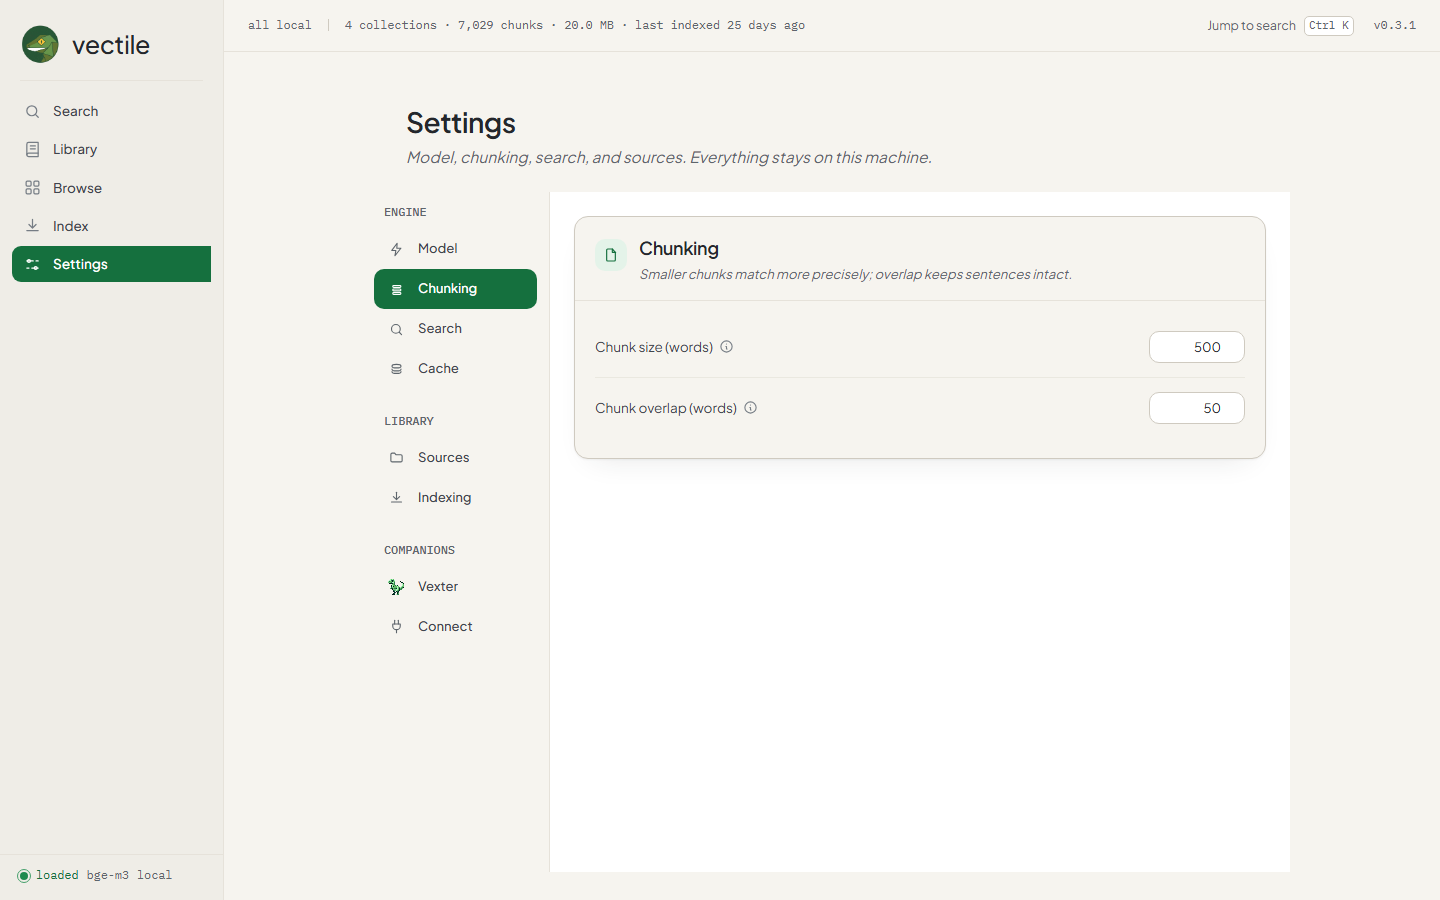
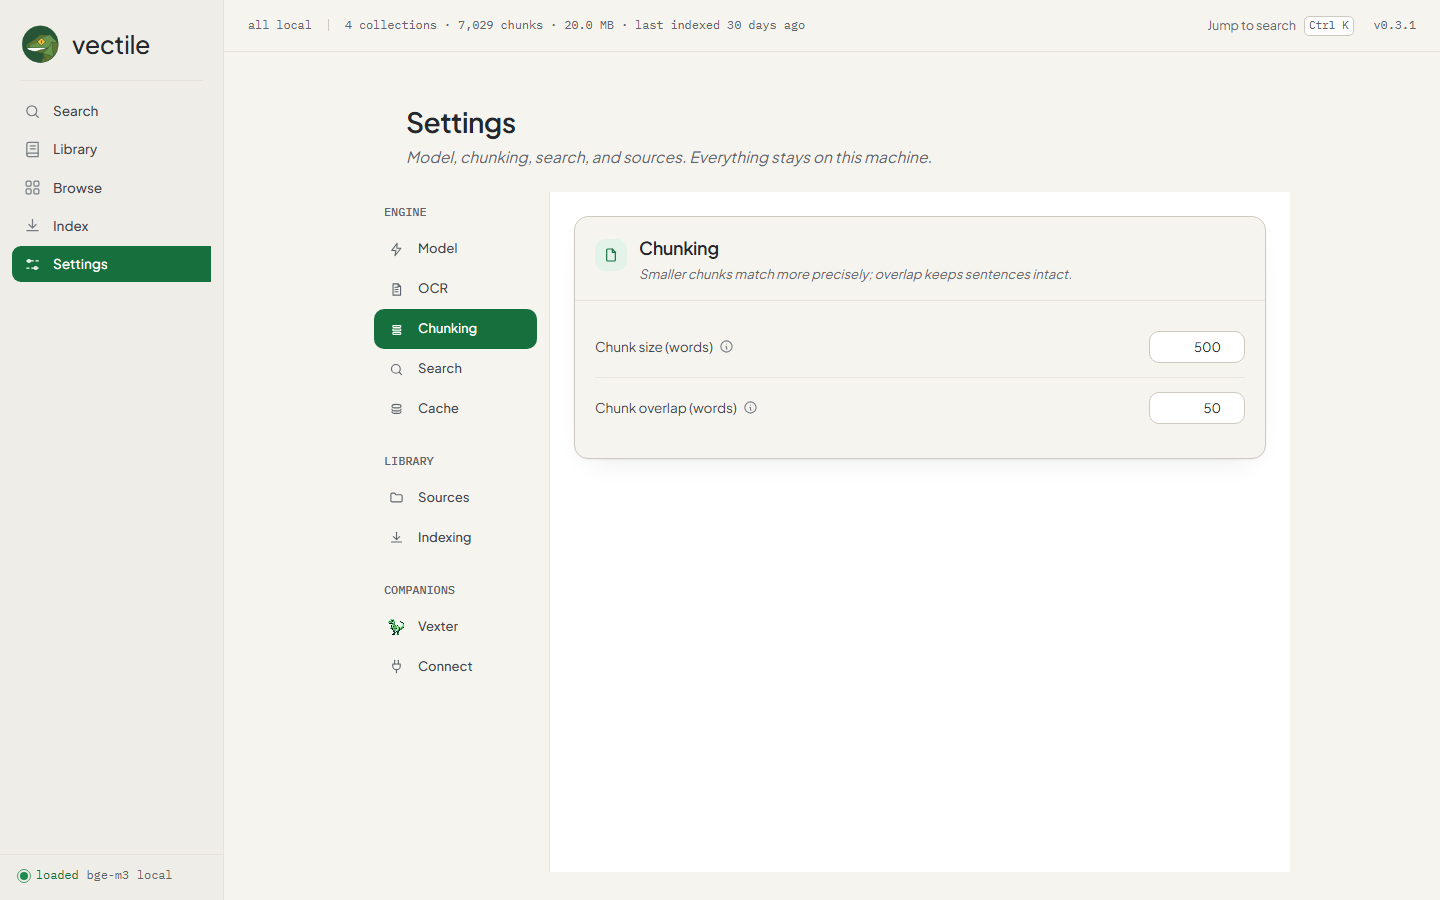
feat: add OCR plugin support for reading scanned PDFs with installation instructions and settings

Changed region(s): [[0.25, 0.28, 0.375, 0.4667], [0.25, 0.5911, 0.3438, 0.7467], [0.25, 0.4978, 0.3438, 0.56]]

diff --git a/website/sidebars.ts b/website/sidebars.ts
@@ -13,7 +13,7 @@ const sidebars: SidebarsConfig = {
       type: 'category',
       label: 'Using vectile',
       collapsed: false,
-      items: ['search', 'library', 'indexing', 'models', 'mcp'],
+      items: ['search', 'library', 'indexing', 'models', 'mcp', 'ocr'],
     },
     {
       type: 'category',

diff --git a/README.md b/README.md
@@ -14,6 +14,7 @@ Inspired by Sebastian Hutter’s local-rag. No Ollama, no API keys. The embeddin
 - **Hybrid search.** Vector and full-text results are fused with Reciprocal Rank Fusion, so a query can find a note that never uses your exact words.
 - **Index what you keep.** Obsidian vaults, project folders of documents (Markdown, PDF, DOCX, HTML, TXT, CSV, JSON, YAML, XML, SQL, shell, XLSX, PPTX, Jupyter notebooks, EPUB), Calibre libraries, and code repositories including their commit history.
 - **Built-in model manager.** Import your own `.gguf`, pick the active model, or download one from the curated catalog in Settings with a live progress bar.
+- **Reads scanned PDFs (optional).** One click in Settings installs a Tesseract OCR plugin, and PDFs that are photos of pages become searchable text. The card shows the version, the size, and the exact address the download comes from, and a run tells you when it hits pages it could not read.
 - **Keyboard-first desktop UI.** Jump to search from anywhere with ⌘K / Ctrl K, and move between Search, Library, Browse, Index, and Settings from the sidebar.
 - **Manage your library.** Expand a collection to its files, page through individual chunks, and delete stale sources, selected chunks, or a whole library in place.
 - **AI assistant access (MCP).** Serve search and collection tools to Claude Desktop or any MCP client over a local server, with index and prune tools available behind an Allow write tools toggle.
@@ -82,6 +83,13 @@ Screenshots show sample data.
   <img src="docs/screenshots/settings-mascot.png" alt="Settings → Vexter: show the sidebar mascot while searching, indexing, or on no results" width="100%">
 </p>
 
+<table>
+  <tr>
+    <td><img src="docs/screenshots/ocr-setup.png" alt="The one-time offer to install the OCR plugin, showing the version, the size, and the download address" width="100%"></td>
+    <td><img src="docs/screenshots/settings-ocr.png" alt="Settings → OCR: plugin status, where it downloads from, an Install button, and a switch for using OCR on pages with no text" width="100%"></td>
+  </tr>
+</table>
+
 ## Supported sources
 
 | Source | Collection Type | What Gets Indexed |
@@ -90,6 +98,8 @@ Screenshots show sample data.
 | Project folders | project | Any folder of documents, each file parsed by its extension (`.md`, `.pdf`, `.docx`, `.html`, `.txt`, `.csv`, `.json`, `.yaml`, `.xml`, `.sql`, `.sh`, `.xlsx`, `.pptx`, `.ipynb`, `.epub`) |
 | Code repositories | code | Git repos: tree-sitter splits each function and class into its own chunk (cAST split-then-merge); commit history is indexed as its own source |
 | Calibre | system | Ebook metadata + content: title, author, tags, series, publisher, description, and EPUB/PDF text |
+
+A PDF that is photos of pages rather than text needs the optional OCR plugin (Settings → OCR). A run reports the pages it could not read, so you find out instead of wondering why a document is missing from your results.
 
 ## Installation
 
@@ -132,7 +142,7 @@ Five views, keyboard-first:
 - **Library**: every collection with its file and chunk counts and the last time it was indexed; expand one to list its files, and remove a source or its documents in place.
 - **Browse**: the chunks of one library, paged in as you scroll and grouped under their file. Select chunks to delete them, or remove a whole library. Old pages drop out of memory and come back if you scroll up again.
 - **Index**: run "Index new" (only changed files) or "Re-index all" (re-embed everything) per collection, or index all collections at once, with live progress.
-- **Settings**: sources, model (download an embedding model from the curated catalog, or import your own), chunking, search defaults, auto-reindex, start-on-login, Vexter (the sidebar mascot), and a Connect section that runs a local MCP server for AI assistants.
+- **Settings**: sources, model (download an embedding model from the curated catalog, or import your own), OCR (an optional plugin that reads scanned PDFs), chunking, search defaults, auto-reindex, start-on-login, Vexter (the sidebar mascot), and a Connect section that runs a local MCP server for AI assistants.
 
 The sidebar shows the model state: idle, loaded, or failed. If the model file is missing or corrupt, vector search falls back to full-text search, so exact-word matches still work.
 
@@ -193,6 +203,8 @@ Config file: `<os.UserConfigDir()>/vectile/config.json`
 | mcp.enabled | false | Serve MCP tools to local AI assistants on launch |
 | mcp.port | 31123 | Port the MCP server listens on (127.0.0.1 only) |
 | mcp.allow_write | false | Let AI assistants call the index and prune tools |
+| ocr.enabled | true | Run OCR on PDF pages that come back with no text |
+| ocr.languages | [eng] | Language codes to read with; codes with no matching data are ignored |
 
 ## Tech stack
 

diff --git a/website/docs/ocr.md b/website/docs/ocr.md
@@ -1,0 +1,70 @@
+---
+title: Scanned PDFs
+description: Install the OCR plugin so vectile can read PDFs that are photos of pages.
+---
+
+import Shot from '@site/src/components/Shot';
+
+# Scanned PDFs
+
+A PDF holds one of two things: text, or pictures of text. The first kind works in vectile with no
+setup. The second kind, a scan or a photo of a document, is an image, so there is nothing in the
+file to search until something reads the picture.
+
+That something is Tesseract, an OCR engine. vectile does not ship it, because most libraries have
+no scanned PDFs and nobody should download 20 MB they will not use.
+
+<Shot
+  src="screenshots/ocr-setup.png"
+  alt="The one-time setup dialog titled Read scanned PDFs, marked optional, showing the plugin status, the download address, an Install button, and a Not now button"
+  caption="The offer appears once, after the model step. Not now is a real answer and it will not ask again."
+/>
+
+## Installing it
+
+**Settings → OCR → Install.**
+
+The card states what it does, the version, the file size, and the exact address the download comes
+from. vectile fetches the archive built for your system, checks it, unpacks it into its own folder,
+and runs that copy. A Tesseract you installed yourself is never used.
+
+<Shot
+  src="screenshots/settings-ocr.png"
+  alt="Settings, OCR section: plugin status and version, what it is for, the download URL, an Install button, an Open release page link, and a switch for using OCR on pages with no text"
+  caption="Status, source, and the switch, in one card. Remove sits in the same place once it is installed."
+/>
+
+## After installing
+
+Nothing changes for PDFs you already indexed, because a run skips any file that has not changed
+since last time. To read them again:
+
+**Settings → OCR → Re-index everything.** That re-reads every file in every library, so it takes a
+while on a large one. Nothing is deleted, and each file's passages are replaced as it is re-read.
+
+After that, text lifted from a scan behaves like any other passage. It is split into chunks,
+embedded, and comes back in search results with the page number it came from.
+
+## Turning it off, or removing it
+
+**Use OCR for pages with no text** stops the reading pass without uninstalling anything. It only
+ever runs on a page that came back with no text at all, so a page that already has a text layer is
+never re-read.
+
+**Remove** deletes the plugin. Text already indexed stays where it is. Only later runs stop reading
+scans.
+
+## When it cannot help
+
+Some pages defeat any OCR engine: handwriting, dense tables, low resolution photos. Those pages
+yield nothing, vectile moves on, and the rest of the document is indexed as usual.
+
+If a run says pages had no readable text and the plugin is already installed, then the PDF is the
+limit rather than the setup.
+
+## Language data
+
+The bundle includes English. If your scans are in another language, add its code to `ocr.languages`
+in [the settings file](/docs/configuration) and drop the matching `.traineddata` file into the
+plugin's `tessdata` folder. A code with no data behind it is ignored, so a typo falls back to
+English instead of failing every page.

diff --git a/website/docs/first-run.md b/website/docs/first-run.md
@@ -28,7 +28,16 @@ catalog.
   caption="Three ways in, all of them local: the catalog, the import dialog, or a file dropped into the models folder."
 />
 
-## 2. Add a source
+## 2. Install OCR (only if you have scans)
+
+One dialog after the model step offers to install Tesseract, the engine that reads PDFs which are
+photos of pages rather than text.
+
+It is genuinely optional. Plain PDFs, notes, code, and ebooks need nothing. If you do keep scans,
+installing it here saves you finding the setting later, and **Not now** is remembered. Either way
+it lives in **Settings → OCR**, and [Scanned PDFs](/docs/ocr) explains the rest.
+
+## 3. Add a source
 
 Open **Settings → Sources**. It is grouped by the kind of thing you have. Pick the kind, then add
 a path by typing it or clicking **Browse**.
@@ -49,7 +58,7 @@ pill, and leaving Settings asks what to do.
   caption="A group becomes a collection, so the name you give the group is the name you see in Library."
 />
 
-## 3. Index
+## 4. Index
 
 Open the **Index** view. Each collection has **Index new** and **Re-index all**, and the header
 has **Index all**.
@@ -66,7 +75,7 @@ Progress shows per collection and the run can be cancelled at any point. See
   caption="The first run does the work. Every run after it skips files that have not changed."
 />
 
-## 4. Search
+## 5. Search
 
 Press <kbd>Ctrl</kbd>+<kbd>K</kbd> (<kbd>⌘</kbd>+<kbd>K</kbd> on macOS) from any view, or pick
 **Search** in the sidebar. Type the question you would ask out loud, not the file name you wish
@@ -89,6 +98,7 @@ reveal it in your file manager.
 | Your settings | `config.json` |
 | The index | `db/vectile.db` |
 | Models | `models/*.gguf` |
+| The OCR plugin, if installed | `plugins/tesseract` |
 
 All of it sits in one `vectile` folder in your app data directory:
 `%AppData%\vectile` on Windows, `~/Library/Application Support/vectile` on macOS,

diff --git a/website/docs/configuration.md b/website/docs/configuration.md
@@ -57,6 +57,15 @@ its allowed range is pulled back to the nearest one.
 | `mascot.show_indexing` | bool | `true` | Show Vexter while a library indexes. |
 | `mascot.show_nothing` | bool | `true` | Show Vexter when a search comes back empty. |
 
+## `ocr`
+
+| Key | Type | Default | What it does |
+|---|---|---|---|
+| `enabled` | bool | `true` | Run OCR on pages that come back with no text. |
+| `languages` | string[] | `["eng"]` | Language codes to read with. Codes with no matching `.traineddata` file are ignored. |
+
+See [Scanned PDFs](/docs/ocr).
+
 ## `mcp`
 
 | Key | Type | Default | What it does |
@@ -109,6 +118,10 @@ its allowed range is pulled back to the nearest one.
     "enabled": false,
     "port": 31123,
     "allow_write": false
+  },
+  "ocr": {
+    "enabled": true,
+    "languages": ["eng"]
   }
 }
 ```

diff --git a/website/docs/settings.md b/website/docs/settings.md
@@ -27,6 +27,18 @@ settings, the catalog under **Get a model**, and the installed models. See
   caption="State, active model, and catalog on one screen."
 />
 
+### OCR
+
+An optional plugin that reads PDF pages which came back with no text, meaning scans and photos of
+pages. The card shows the version, the file size, and the address the download comes from. See
+[Scanned PDFs](/docs/ocr).
+
+<Shot
+  src="screenshots/settings-ocr.png"
+  alt="Settings, OCR section: plugin status and version, what it is for, the download URL, an Install button, an Open release page link, and a switch for using OCR on pages with no text"
+  caption="Most libraries never need this. The card says what it costs in size before you click Install."
+/>
+
 ### Chunking
 
 | Setting | Default | Range | What it does |

diff --git a/website/docs/sources.md b/website/docs/sources.md
@@ -69,7 +69,9 @@ so a hit reads like a citation rather than a file path.
 
 - **Email and RSS.** The project vectile grew out of read email and RSS databases. vectile does
   not.
-- **Scanned PDFs.** A PDF with real text works. A PDF that is photos of pages produces nothing.
+- **Scanned PDFs, until you install the plugin.** A PDF with real text works as it is. A PDF that
+  is photos of pages needs the optional [OCR plugin](/docs/ocr). A run tells you when it finds
+  pages it could not read.
 - **`.xls` and `.ppt`.** The old binary Office formats are unsupported. Save as `.xlsx` or
   `.pptx` first.
 - **Cloud-only files.** A OneDrive or iCloud placeholder with no contents on disk is skipped

diff --git a/website/docs/troubleshooting.md b/website/docs/troubleshooting.md
@@ -31,6 +31,12 @@ answer. Check the model state in the sidebar.
 2. **Configured but never indexed.** Open Index and run **Index new**.
 3. **Indexed, but no match.** Try an example query, or loosen the filters.
 
+## A scanned PDF returns nothing
+
+A PDF that is photos of pages has no text in it to index, so it needs the OCR plugin. Install it
+from **Settings → OCR**, then click **Re-index everything** there. A plain re-index skips files that
+have not changed, so it would not pick the PDF up. See [Scanned PDFs](/docs/ocr).
+
 ## A collection shows a "needs reindex" badge
 
 That collection has documents but no usable numbers stored for them, usually after switching to a
